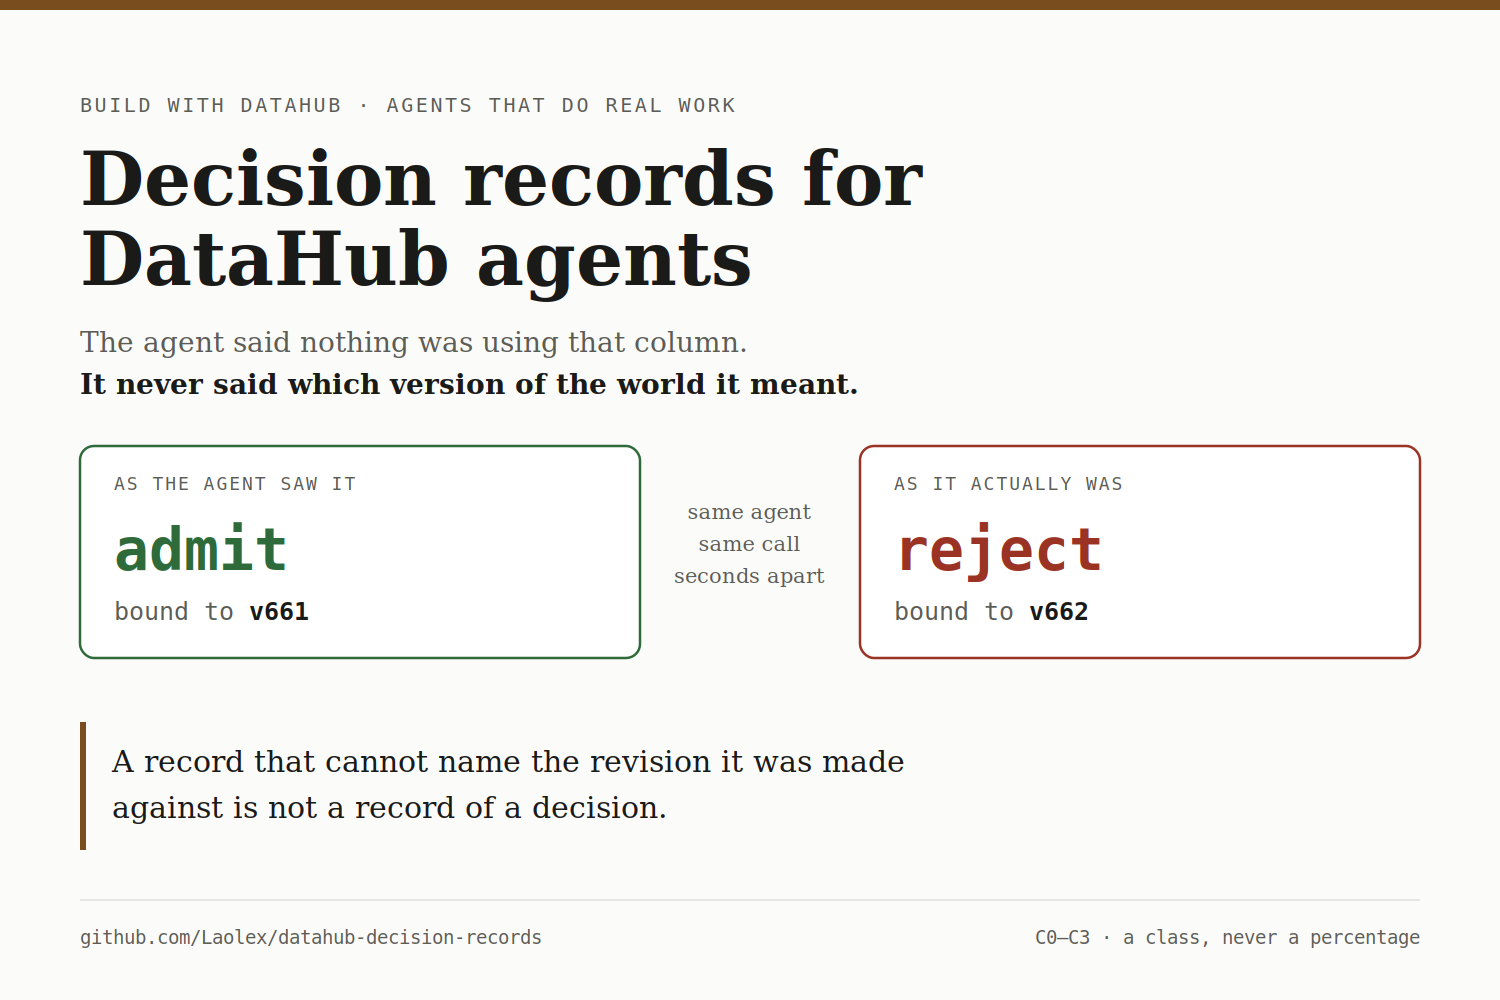
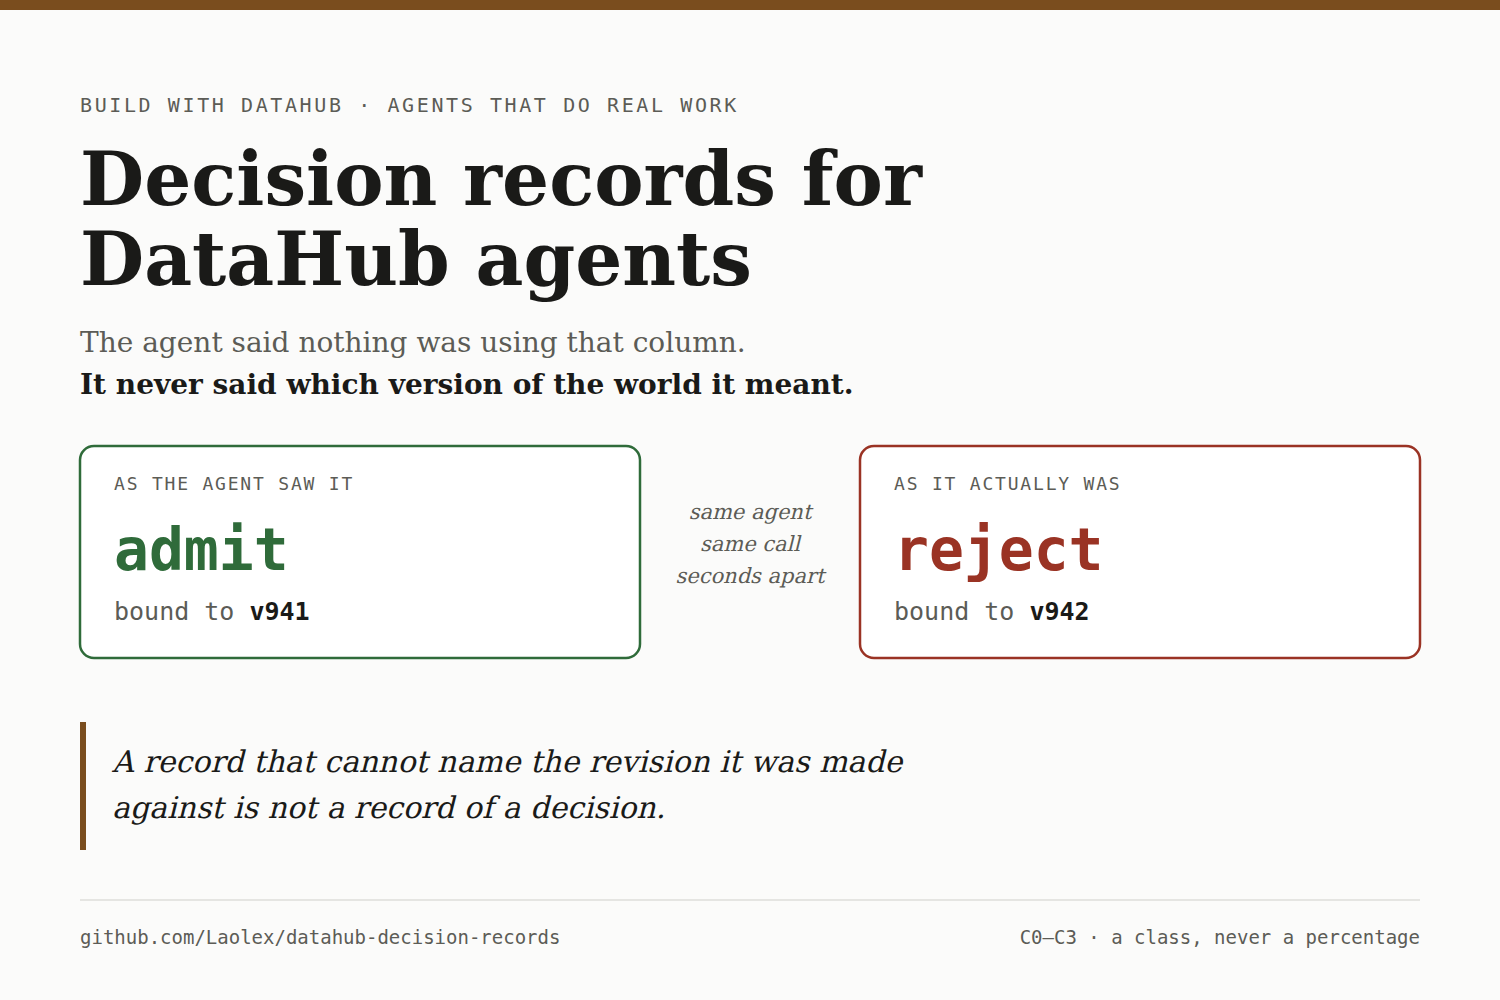
docs: document the record schema, the seven units and the eleven invariants
The invariants section pointed at a design document that is not in this repo,
so the eleven properties it named resolved to nothing for a reader here; they
are now stated in full. Adds a field-by-field reference for the decision
record, with what each field's removal costs taken from the ablation rather
than asserted. sarif.py and cli.py were undocumented, so the unit list is
seven, not five. Adds the architecture diagram and the submission images.

diff --git a/README.md b/README.md
@@ -78,7 +78,10 @@ And its companion, which is why this ships as something a team installs rather t
 
 ## How it works
 
-Five units, each independently testable.
+![The five units that certify a decision, and the two that deliver it](docs/submission/05-how-it-works.png)
+
+Seven units, each independently testable: five that make a decision certifiable, then two that
+put the certificate where someone will act on it.
 
 **The context proxy** (`src/dhdr/proxy.py`) sits between the agent and DataHub's MCP server.
 It forwards every tool call over real MCP transport and returns *the MCP response itself* to
@@ -147,6 +150,24 @@ read, and detects being overwritten. It does **not** close the race where anothe
 between our read and our write. Both platform facts are pinned by tests that fail if either
 mechanism starts working.
 
+**The SARIF mapper** (`src/dhdr/sarif.py`) turns a certificate into the format code scanning
+already understands, so a decision lands as an annotation on the line of SQL that caused it
+rather than in a terminal somebody ran once. SARIF is the right carrier because its `level` is
+ordinal — note, warning, error — so the capability classes map onto it directly and nobody has
+to invent a number: C0 and C1 are `note`, C2 `warning`, C3 `error`. A record that certifies
+nothing gets its own rule, at `warning` by default so a gap in instrumentation does not read as
+a code defect, and at `error` under `--strict` once a team has earned confidence in coverage.
+The annotation is placed on the line under decision, because a code host renders a result inline
+only when it falls on a line the diff touches.
+
+**The CLI** (`src/dhdr/cli.py`, the `dhdr` command) is the only place the *order* lives: it wires
+a scenario to the proxy, runs it, certifies the result, writes the certificate back and emits the
+SARIF. Everything above it is a library that can be called without it, and their own dependencies
+run one way and never cycle — `proxy` on `coordinate`, `certify` on `proxy`, `publish` and
+`sarif` on `certify`. Nothing imports the CLI. That is why it is the largest file here:
+sequencing is its whole job, and keeping it in one place is what stops the units from having to
+know about each other.
+
 The capture core is domain-ignorant by construction. It knows about reads, versions,
 predicates and candidate sets. It does not know what a schema, an owner or a pipeline is. If a
 scenario requires a change to the core, the core is wrong.
@@ -166,6 +187,50 @@ reading through the openapi **v2** endpoint. That endpoint returns 400 for `glos
 So a lineage-only test suite reports a healthy coordinate layer that cannot read three aspects at
 all. `history()` comes back empty, every read binds to nothing, and nothing raises. It is now a v3
 read, with a regression test that exercises a non-lineage aspect.
+
+## What a record contains
+
+The record is the product, so here is every field it carries. Format and hash chaining come from
+[`reckon-rcdr`](https://pypi.org/project/reckon-rcdr/); what goes in them is this project's
+argument. A live example is [`examples/record-then.json`](examples/record-then.json).
+
+The last column is measured, not asserted: it is what
+[`examples/ablation.txt`](examples/ablation.txt) reports when that field is deleted from an
+otherwise complete record and the certifier is re-run. Fields the ablation does not cover are
+marked `—`; that means untested, not unimportant.
+
+| field | holds | deleting it costs |
+|---|---|---|
+| `outcome` | what was decided — `admit` or `reject`. | — |
+| `predicate.id` `.expression` `.operator` | the rule that decided, as an id, a readable form and its comparison operator. | C2 → **C0** |
+| `compared.value` `.type` | the value the predicate was evaluated against, and its type. | — |
+| `policy.key` `.resolved_value` | which policy applied and the value it resolved to. | C2 → **C0** |
+| `policy.resolution.source` | the DataHub URN and aspect the policy was resolved from, revision-qualified. | — |
+| `policy.resolution.revision` | the aspect version in force when the deciding read happened. | C2 → **C2** — see below |
+| `policy.resolution.provenance` | where the policy came from — `bundled` here, so a reader can tell configuration from default. | — |
+| `candidates.items` | every action considered, each with its predicate, compared value and outcome. This is what makes the C1 and C2 counterfactuals answerable. | — |
+| `candidates.completeness` | whether that set was `exhaustive` or partial. A counterfactual over a set that might be missing an option is not an answer. | C2 → **C1** |
+| `reads[].source` | the URN, aspect and bound revision of each deciding read — `…#upstreamlineage@v935`. | unbound read → **none** |
+| `reads[].value_digest` | a digest of the value the agent actually received, so a substituted value is detectable. | — |
+| `reads[].key` | which predicate input this read supplied. | — |
+| `writes` | metadata this decision mutated. Non-empty is what raises the C3 boundary. | — |
+| `action.id` `.params_digest` | the change being decided about, committed to by digest so the certificate names which change it certified without carrying a copy that can drift. | — |
+| `execution.pure` | whether the decision function was pure. | C2 → **none** |
+| `execution.runtime` `.clock` `.seed` `.deps_digest` `.path_digest` | the execution fingerprint: interpreter, any clock or seed read, and digests of dependencies and code path. `null` for clock and seed is a recorded absence, not a missing field. | — |
+| `decision_id` `run_id` `sequence` `ts` | identity and ordering within a run. | — |
+| `capture.emitter` `.sdk_version` `rcdr_version` | what wrote the record and in which format version. | — |
+
+Two rows deserve reading twice.
+
+**`execution.pure` is the most load-bearing field in the record**, and it is not the one this
+project is about. Remove it and nothing is certifiable at all: an impure decision function could
+have consulted anything, so no replay proves anything, whatever else was captured.
+
+**`policy.resolution.revision` costs nothing to delete.** The class stays C2. That result goes
+against the design law printed at the top of this README, and it is published rather than
+buried: what actually carries the soundness is `reads[].source` — the *binding*, and the refusal
+to certify when a read has none. The revision on the record is the human-readable name for a
+fact the binding already established. See [Ablation](#ablation).
 
 ## Scenarios
 
@@ -562,11 +627,42 @@ fact-matching, both scenario agents, the certifier and its pairing guard, write-
 
 ## Invariants
 
-The full set of eleven invariants — the properties that must hold when every line of this
-implementation has been replaced — are enumerated in the design document and summarised above.
-Two of them constrain the most code. First, the decision input is the response the agent received.
-Second, absence of evidence is recorded as absence — a field that was not captured stays
-distinguishable from a field captured as empty.
+These must hold when every line of this implementation has been replaced. They are the
+specification; everything above is one way of satisfying it.
+
+1. **A decision record names the metadata revision that justified it.** Every context read an
+   agent performs is bound to the aspect version in force at read time. A record that cannot name
+   its revision is marked unsound rather than reported as passing.
+2. **The verifier reports a capability class, never a percentage.** A score over incommensurable
+   kinds of missing evidence manufactures false confidence.
+3. **C3 is certified as a boundary, not as a pass.** Where a decision mutates metadata a later
+   decision reads, the certificate states where deductive evidence ends and counterfactual
+   inference begins, and never claims past that line.
+4. **The capture core is domain-ignorant.** It knows about reads, versions, predicates and
+   candidate sets. It does not know what a schema, an owner or a pipeline is. If a scenario
+   requires a change to the core, the core is wrong.
+5. **Absence of evidence is recorded as absence.** A field that was not captured stays
+   distinguishable from a field captured as empty.
+6. **A decision that is not published is not inherited.** The certificate is written back to the
+   DataHub entity the decision was about. The agent's own write is itself state a later decision
+   may read, so it is surfaced as a C3 boundary rather than quietly excluded.
+7. **The decision input is the response the agent received.** A re-fetched value is never
+   substituted for it, however similar — between two fetches the metadata may have moved, and
+   then the revision on the record is not the revision that decided.
+8. **A revision is bound by matching facts, never by timestamp proximity alone.** Proximity
+   proposes a candidate; the deciding facts from both payloads must then agree. Zero matches means
+   a write landed in between; more than one means the facts do not discriminate. Both are unbound.
+9. **An unbound deciding read certifies nothing.** The class collapses to none — not a class
+   reported alongside a warning. "C2, but one read is unbound" is exactly the phrasing a hurried
+   reader takes as certification.
+10. **The published artifact must resolve.** The certificate is an HTTPS URL a later human or
+    agent can open. A summary line in a description is not the certificate, and a private URI
+    scheme resolves for nobody.
+11. **The self-write boundary is derived from evidence.** It follows from a recorded publish
+    event, never from a flag the caller passed. A caller asserting that a write happened is not
+    proof that it did.
+
+Invariants 7 and 5 constrain the most code; 9 is the one a reviewer should try hardest to break.
 
 ## Non-goals
 

diff --git a/docs/submission/README.md b/docs/submission/README.md
@@ -1,0 +1,31 @@
+# Submission images
+
+Upload to the Devpost gallery in this order. The first image is the one Devpost uses as the
+project thumbnail. All are 1500×1000 (3:2), which is the ratio Devpost crops to.
+
+| file | what it shows | source |
+|---|---|---|
+| `thumbnail.png` | The flip, as a cover: same agent, same call, opposite outcomes, different revisions. | designed |
+| `02-the-flip.png` | The headline result in full, including the concrete change proposed each way. | `examples/demo-transcript.txt` |
+| `03-capability-classes.png` | What a certificate reports — `none`, C0, C1, C2, and the hard cliff at C3. | `examples/README.md` |
+| `04-ablation.png` | Which captured field is load-bearing, including the row that goes against us. | `examples/ablation.txt` |
+| `05-how-it-works.png` | The five units and where the certificate lands. | `README.md` |
+| `06-certificate-in-datahub.png` | The certificates on the dataset's own Documentation tab. | live DataHub Core v1.5.0.6 |
+| `07-decision-gate-on-a-pull-request.png` | The same certificate as a code-scanning annotation on PR #1. | github.com |
+
+`06` and `07` are unretouched screenshots of the running system, cropped and captioned. The
+others are drawn, but every number on them is copied from a file in `examples/` — the revisions
+`v941` and `v942` are the pair in `demo-transcript.txt`.
+
+`og.png` (1200×630) is not part of the gallery. It is the social preview card for the hosted
+walkthrough, referenced from `docs/index.html`.
+
+The `.svg` beside each drawn image is its source. To re-render after an edit:
+
+```bash
+chromium --headless=old --window-size=1500,1000 --screenshot=out.png page.html   # page.html wraps the svg in an <img>
+```
+
+Colours and type match `docs/index.html`: `#fbfbfa` ground, `#1a1a18` text, `#5c5c56` muted,
+`#7a4d1e` accent, `#2f6b3a` admit, `#9a3324` reject; DejaVu Serif for prose, DejaVu Sans Mono
+for anything the machine produced.
